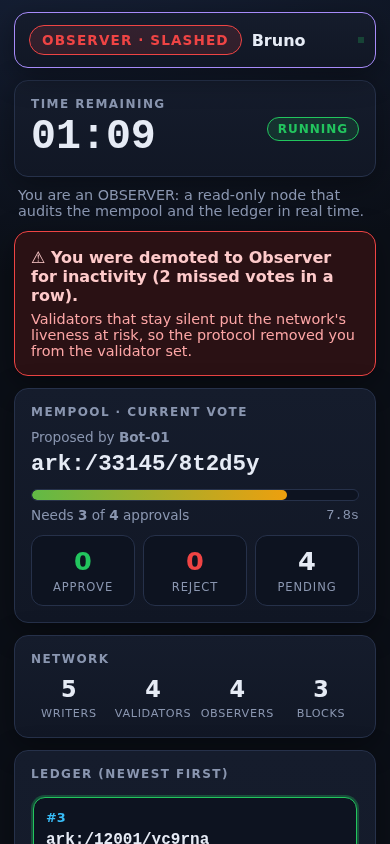
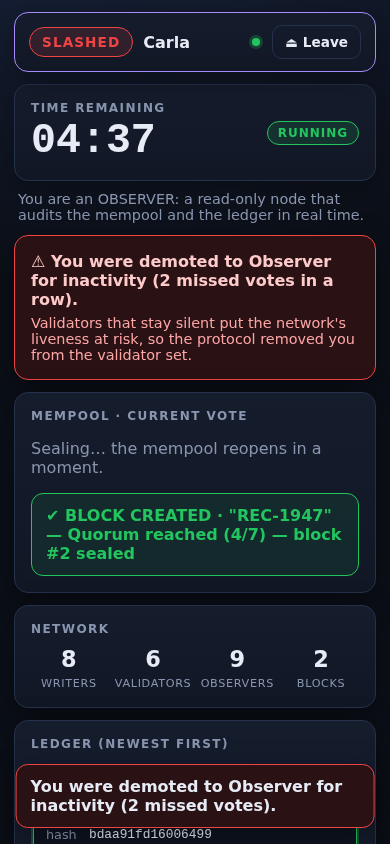
Make the project generic and refresh screenshots
- Remove references to specific identifier schemes and initiatives;
  use generic record identifiers (e.g. REC-2048) in examples, UI and
  simulator
- Neutral example Wi-Fi password in the README
- Show a short SLASHED badge so long names fit on narrow phones
- Refresh documentation screenshots with the current interface

diff --git a/static/js/node.js b/static/js/node.js
@@ -8,7 +8,7 @@
   const { $, el, connect, toast, fmtClock, gameRemaining, renderMempool, tickMempool, renderLedger } = NodePlay;
 
   const ROLE_HINTS = {
-    WRITER: "You are a WRITER: propose records (words or ARK identifiers) for the validators to vote on.",
+    WRITER: "You are a WRITER: propose records (words or identifiers) for the validators to vote on.",
     VALIDATOR: "You are a VALIDATOR: approve or reject every proposal within the time limit. Staying silent twice gets you slashed!",
     OBSERVER: "You are an OBSERVER: a read-only node that audits the mempool and the ledger in real time.",
   };
@@ -153,7 +153,7 @@
     document.body.className = `role-${you.role}`;
     const badge = $("#role-badge");
     badge.className = `badge ${you.eliminated ? "ELIMINATED" : you.role}`;
-    badge.textContent = you.eliminated ? "OBSERVER · SLASHED" : you.role;
+    badge.textContent = you.eliminated ? "SLASHED" : you.role;
     $("#node-name").textContent = you.name;
     $("#role-hint").textContent = ROLE_HINTS[you.role];
 

diff --git a/static/index.html b/static/index.html
@@ -60,7 +60,7 @@
     <section id="writer-view" class="panel hidden">
       <h2 class="panel-title">Propose a transaction</h2>
       <form id="propose-form" autocomplete="off">
-        <input id="tx-input" class="input mono" maxlength="48" placeholder="e.g. ark:/80444/xt9bk2" enterkeyhint="send">
+        <input id="tx-input" class="input mono" maxlength="48" placeholder="e.g. REC-2048 or any word" enterkeyhint="send">
         <button id="propose-btn" class="btn btn-primary" type="submit" disabled>Propose Transaction</button>
       </form>
       <p id="writer-status" class="muted small"></p>

diff --git a/static/css/style.css b/static/css/style.css
@@ -72,6 +72,7 @@ button, input { font: inherit; color: inherit; }
   letter-spacing: 0.08em;
   border: 1px solid currentColor;
   background: color-mix(in srgb, currentColor 14%, transparent);
+  white-space: nowrap;
 }
 .badge.WRITER { color: var(--writer); }
 .badge.VALIDATOR { color: var(--validator); }

diff --git a/tools/simulate.py b/tools/simulate.py
@@ -19,7 +19,6 @@ import asyncio
 import json
 import os
 import random
-import string
 import sys
 import uuid
 from pathlib import Path
@@ -35,11 +34,11 @@ DEFAULT_URL = f"ws://127.0.0.1:{os.environ.get('PORT', '8000')}"
 WORDS = ["thesis", "dataset", "article", "photo", "map", "record", "archive", "letter", "video", "report"]
 
 
-def random_ark() -> str:
+def random_record() -> str:
+    """A random word or record identifier, e.g. "dataset" or "REC-4821"."""
     if random.random() < 0.5:
         return random.choice(WORDS)
-    suffix = "".join(random.choices(string.ascii_lowercase + string.digits, k=6))
-    return f"ark:/{random.randint(10000, 99999)}/{suffix}"
+    return f"REC-{random.randint(1000, 9999)}"
 
 
 async def bot(index: int, args: argparse.Namespace, connected: asyncio.Event) -> None:
@@ -77,7 +76,7 @@ async def writer_loop(ws, latest: dict) -> None:
         you = latest.get("you", {})
         if you.get("role") == "WRITER" and latest.get("accepting"):
             try:
-                await ws.send(json.dumps({"type": "propose", "tx": random_ark()}))
+                await ws.send(json.dumps({"type": "propose", "tx": random_record()}))
             except websockets.ConnectionClosed:
                 return
 

diff --git a/nodeplay/config.py b/nodeplay/config.py
@@ -59,7 +59,7 @@ BOT_VALIDATORS_COUNT: int = (
 # Consecutive missed votes (timeouts) before a validator is slashed.
 MAX_MISSED_VOTES: int = _int_env("MAX_MISSED_VOTES", 2)
 
-# Maximum length of a proposed transaction (word / ARK identifier).
+# Maximum length of a proposed transaction (a word or a record identifier).
 MAX_TX_LENGTH: int = _int_env("MAX_TX_LENGTH", 48)
 
 # Optional shared secret for the dashboard controls (START / RESET).

diff --git a/README.md b/README.md
@@ -18,7 +18,7 @@ No app to install, no internet connection needed. One laptop and a local Wi-Fi n
 
 Public blockchains such as Bitcoin let *anyone* join and use costly Proof-of-Work to agree on history. Many institutional networks are **permissioned** instead. They have a known set of nodes, and a small committee of validators reaches agreement through **Byzantine Fault Tolerant (BFT)** voting. One example is [Hyperledger Besu](https://besu.hyperledger.org/) running the IBFT 2.0 or QBFT consensus protocols.
 
-**dARK (Decentralized Archival Resource Key)** follows this model. It is an initiative to run [ARK persistent identifiers](https://arks.org/), the stable identifiers for scholarly and archival objects such as `ark:/80444/xt9bk2`, on a permissioned blockchain. Institutions *write* identifiers, a set of *validator* nodes agrees on them, and anyone can *observe* and audit the resulting ledger.
+A typical permissioned network has three kinds of participants. Members *write* records (a document registration, a certificate, a supply-chain event…). A set of *validator* nodes agrees on which records enter the ledger. And anyone with access can *observe* and audit the result.
 
 NodePlay turns that architecture into a game people can feel:
 
@@ -60,7 +60,7 @@ NodePlay turns that architecture into a game people can feel:
    Bot validators vote a second or two after each proposal and are never slashed. Human validators still vote, and still get slashed if they stay silent; their votes just can't block a proposal the bots approve. That is a good debrief point about who controls a network when a few nodes hold the majority. `BOT_VALIDATORS_COUNT` changes how many bots run (capped at `MAX_VALIDATORS`).
 
 3. **Global timer.** Nothing can be proposed until the facilitator presses **START**. The activity then runs for **5 minutes**, synchronised with the server clock on every screen. When time is up, the mempool closes. A vote already in progress is still allowed to finish.
-4. **One proposal at a time.** A writer submits a word or an ARK identifier (up to 48 characters). While it is being voted on, nobody else can propose. Writers can propose **as many times as they like**: as soon as the mempool reopens (a couple of seconds after each result), any writer can submit again, including the one who just proposed.
+4. **One proposal at a time.** A writer submits a word or a record identifier such as `REC-2048` (up to 48 characters). While it is being voted on, nobody else can propose. Writers can propose **as many times as they like**: as soon as the mempool reopens (a couple of seconds after each result), any writer can submit again, including the one who just proposed.
 5. **10-second vote.** The validators who are active when the proposal arrives form the voting committee. The quorum is `floor(N/2) + 1`.
    - Approvals ≥ quorum → **block created** and appended to the ledger.
    - Anything else, including a **timeout**, → **block not created** (default deny).
@@ -92,7 +92,7 @@ The `.env` file is where you describe the venue, so nothing needs to change in t
 
 ```ini
 WIFI_SSID=IOI-Blockchain-Lab   # Wi-Fi every participant must join
-WIFI_PASSWORD=dark2026!        # shown on the projector, on purpose
+WIFI_PASSWORD=lab2026!         # shown on the projector, on purpose
 WIFI_SECURITY=WPA              # WPA | WEP | nopass (optional)
 HOST_IP=                       # empty = auto-detect the IP at startup
 ```
@@ -116,7 +116,7 @@ python main.py
 ```
   Projector dashboard : http://192.168.0.10:8000/dashboard
   Participants (QR)   : http://192.168.0.10:8000/
-  Wi-Fi network       : IOI-Blockchain-Lab  (password: dark2026!)
+  Wi-Fi network       : IOI-Blockchain-Lab  (password: lab2026!)
 ```
 
 `--host 0.0.0.0` is required. It makes the server reachable from other devices on the network, not only from the laptop.
@@ -155,7 +155,7 @@ python main.py
 | 0:00 | Explain the three roles in one sentence each, then press **START**. |
 | 0:00 – 5:00 | Narrate the dashboard: *"Look, a timeout means no block!"*, *"Bot-07 was slashed, so the quorum just dropped to 3 of 5."* |
 | 5:00 | Time is up. Look at the ledger: how many blocks were sealed, rejected, slashed? |
-| Debrief | Why default deny? What happens to liveness when validators go silent? Why do real BFT networks need 2/3? Who should be allowed to be a validator in a network like dARK? |
+| Debrief | Why default deny? What happens to liveness when validators go silent? Why do real BFT networks need 2/3? Who should be allowed to be a validator in a real permissioned network? |
 
 Need to end early? While the activity is running, **▶ START** turns into a red **■ STOP** button. STOP closes the mempool immediately and cancels the vote in progress; the cancelled vote is not counted as a rejected block and gives no strikes.
 
@@ -199,7 +199,7 @@ GAME_DURATION=60 VOTE_TIMEOUT=5 ADMIN_TOKEN=secret uvicorn main:app --host 0.0.0
 
 ## Rehearse without people: the bot simulator
 
-`tools/simulate.py` connects bot nodes that join in order, propose random ARK identifiers, and vote. Some of them stay silent, so you can watch slashing happen.
+`tools/simulate.py` connects bot nodes that join in order, propose random words and record identifiers, and vote. Some of them stay silent, so you can watch slashing happen.
 
 ```bash
 # terminal 1
@@ -266,7 +266,7 @@ blockchain-NodePlay/
 
 | Direction | Message |
 |---|---|
-| node → server | `{"type": "propose", "tx": "ark:/80444/xt9bk2"}` |
+| node → server | `{"type": "propose", "tx": "REC-2048"}` |
 | node → server | `{"type": "vote", "round": 3, "approve": true}` |
 | node → server | connect to `/ws/node?sid=<id>&name=<nickname>`; without a valid nickname the server closes with code 4002 |
 | node → server | `{"type": "leave"}` (frees the seat; the server closes the socket with code 4001) |
